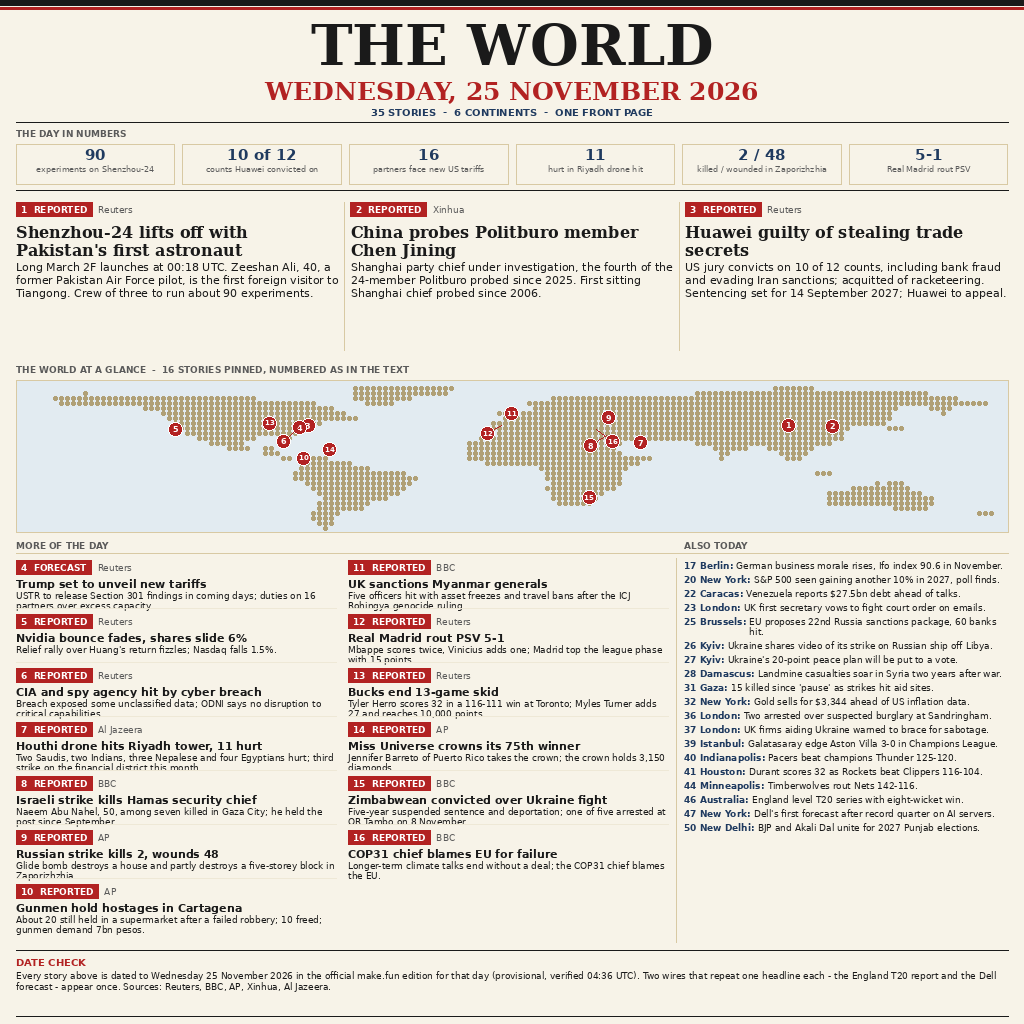
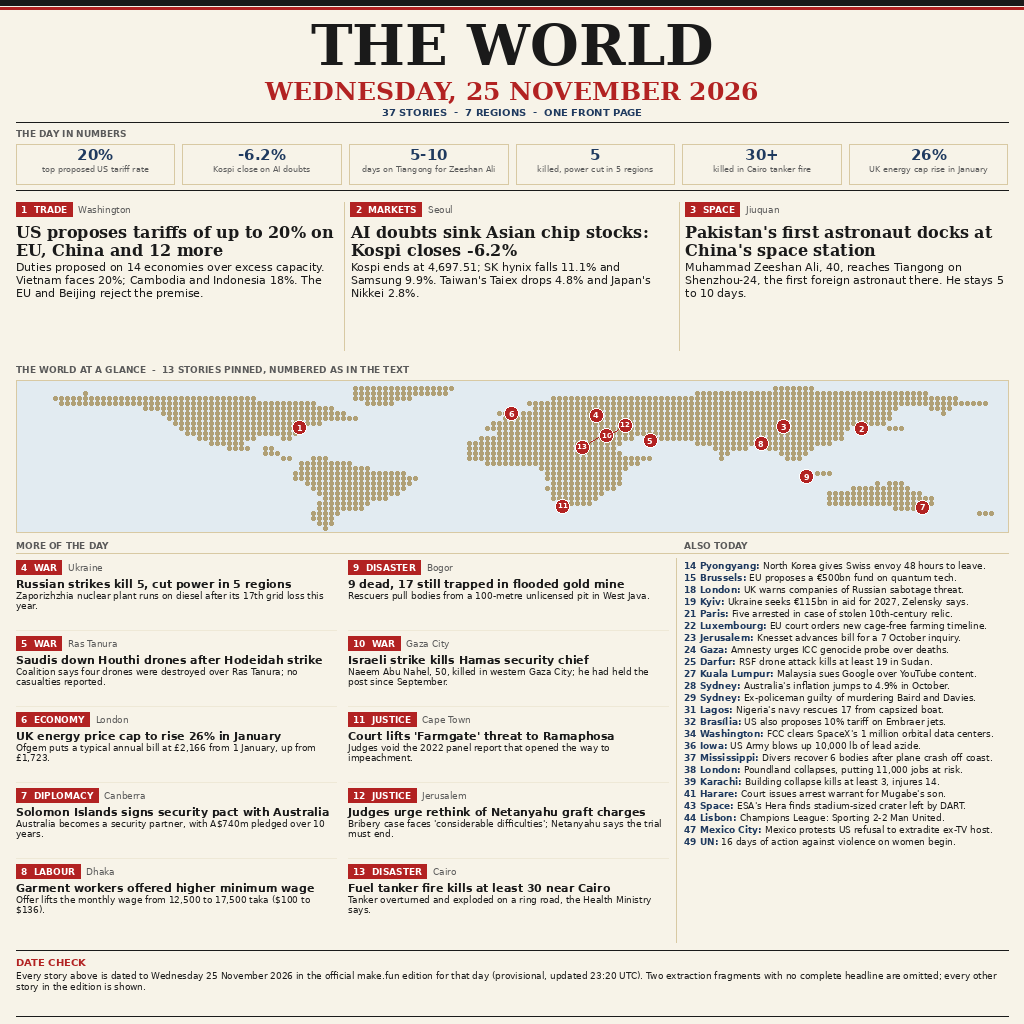
v2: align to updated 25 Nov edition (37 stories, 7 regions)

diff --git a/render.py b/render.py
@@ -2,13 +2,14 @@
 """Render the news-image-20261125 front page (1024x1024, PIL only).
 
 Source of truth: the official make.fun edition
-GET /api/news/editions/2026-11-25 (37 stories, 6 regions, provisional,
-extracted 04:36 UTC), saved at edition-25nov.json. Every number, outlet
-and framing below comes from that edition. Two wires in the edition
-carry the same headline twice, so each is shown once: the England T20
-report (#46/#48) and the Dell forecast (#47/#49). 35 stories are shown.
-No flags are drawn anywhere. No network, no clock, no photos, no
-randomness: two runs are byte-identical.
+GET /api/news/editions/2026-11-25 as re-fetched on 26 Nov (39 stories,
+7 regions, provisional, updated 23:20 UTC), saved at
+edition-25nov-r2.json. Every number, place and framing below comes
+from that edition. Two extraction fragments carry no complete
+headline (a repeated Man United fragment and a truncated OPCW line),
+so they are omitted: 37 stories are shown. No flags are drawn
+anywhere. No network, no clock, no photos, no randomness: two runs
+are byte-identical.
 """
 import os
 
@@ -173,110 +174,101 @@ def on_land(lon, lat):
 
 # ---- Content: all from the official 25 Nov edition ----
 LEADS = [
-    ("1", "REPORTED", "Reuters",
-     "Shenzhou-24 lifts off with Pakistan's first astronaut",
-     "Long March 2F launches at 00:18 UTC. Zeeshan Ali, 40, a former "
-     "Pakistan Air Force pilot, is the first foreign visitor to Tiangong. "
-     "Crew of three to run about 90 experiments.",
-     (100.29, 40.96)),
-    ("2", "REPORTED", "Xinhua",
-     "China probes Politburo member Chen Jining",
-     "Shanghai party chief under investigation, the fourth of the "
-     "24-member Politburo probed since 2025. First sitting Shanghai "
-     "chief probed since 2006.",
-     (116.4, 39.9)),
-    ("3", "REPORTED", "Reuters",
-     "Huawei guilty of stealing trade secrets",
-     "US jury convicts on 10 of 12 counts, including bank fraud and "
-     "evading Iran sanctions; acquitted of racketeering. Sentencing "
-     "set for 14 September 2027; Huawei to appeal.",
-     (-74.01, 40.71)),
+    ("1", "TRADE", "Washington",
+     "US proposes tariffs of up to 20% on EU, China and 12 more",
+     "Duties proposed on 14 economies over excess capacity. Vietnam "
+     "faces 20%; Cambodia and Indonesia 18%. The EU and Beijing "
+     "reject the premise.",
+     (-77.0369, 38.9072)),
+    ("2", "MARKETS", "Seoul",
+     "AI doubts sink Asian chip stocks: Kospi closes -6.2%",
+     "Kospi ends at 4,697.51; SK hynix falls 11.1% and Samsung 9.9%. "
+     "Taiwan's Taiex drops 4.8% and Japan's Nikkei 2.8%.",
+     (126.978, 37.5665)),
+    ("3", "SPACE", "Jiuquan",
+     "Pakistan's first astronaut docks at China's space station",
+     "Muhammad Zeeshan Ali, 40, reaches Tiangong on Shenzhou-24, the "
+     "first foreign astronaut there. He stays 5 to 10 days.",
+     (98.4941, 39.7326)),
 ]
 
 CARDS = [
-    ("4", "FORECAST", "Reuters",
-     "Trump set to unveil new tariffs",
-     "USTR to release Section 301 findings in coming days; duties on 16 "
-     "partners over excess capacity.", ( -77.04, 38.9)),
-    ("5", "REPORTED", "Reuters",
-     "Nvidia bounce fades, shares slide 6%",
-     "Relief rally over Huang's return fizzles; Nasdaq falls 1.5%.",
-     (-121.95, 37.35)),
-    ("6", "REPORTED", "Reuters",
-     "CIA and spy agency hit by cyber breach",
-     "Breach exposed some unclassified data; ODNI says no disruption to "
-     "critical capabilities.", (-77.15, 38.95)),
-    ("7", "REPORTED", "Al Jazeera",
-     "Houthi drone hits Riyadh tower, 11 hurt",
-     "Two Saudis, two Indians, three Nepalese and four Egyptians hurt; "
-     "third strike on the financial district this month.", (46.68, 24.71)),
-    ("8", "REPORTED", "BBC",
+    ("4", "WAR", "Ukraine",
+     "Russian strikes kill 5, cut power in 5 regions",
+     "Zaporizhzhia nuclear plant runs on diesel after its 17th grid "
+     "loss this year.", (30.5234, 50.4501)),
+    ("5", "WAR", "Ras Tanura",
+     "Saudis down Houthi drones after Hodeidah strike",
+     "Coalition says four drones were destroyed over Ras Tanura; no "
+     "casualties reported.", (50.1595, 26.6406)),
+    ("6", "ECONOMY", "London",
+     "UK energy price cap to rise 26% in January",
+     "Ofgem puts a typical annual bill at £2,166 from 1 January, up "
+     "from £1,723.", (-0.1278, 51.5074)),
+    ("7", "DIPLOMACY", "Canberra",
+     "Solomon Islands signs security pact with Australia",
+     "Australia becomes a security partner, with A$740m pledged over "
+     "10 years.", (149.13, -35.2809)),
+    ("8", "LABOUR", "Dhaka",
+     "Garment workers offered higher minimum wage",
+     "Offer lifts the monthly wage from 12,500 to 17,500 taka "
+     "($100 to $136).", (90.4125, 23.8103)),
+    ("9", "DISASTER", "Bogor",
+     "9 dead, 17 still trapped in flooded gold mine",
+     "Rescuers pull bodies from a 100-metre unlicensed pit in West "
+     "Java.", (106.8166, -6.595)),
+    ("10", "WAR", "Gaza City",
      "Israeli strike kills Hamas security chief",
-     "Naeem Abu Nahel, 50, among seven killed in Gaza City; he held the "
-     "post since September.", (34.47, 31.5)),
-    ("9", "REPORTED", "AP",
-     "Russian strike kills 2, wounds 48",
-     "Glide bomb destroys a house and partly destroys a five-storey block "
-     "in Zaporizhzhia.", (35.14, 47.84)),
-    ("10", "REPORTED", "AP",
-     "Gunmen hold hostages in Cartagena",
-     "About 20 still held in a supermarket after a failed robbery; 10 "
-     "freed; gunmen demand 7bn pesos.", (-75.51, 10.39)),
-    ("11", "REPORTED", "BBC",
-     "UK sanctions Myanmar generals",
-     "Five officers hit with asset freezes and travel bans after the ICJ "
-     "Rohingya genocide ruling.", (-0.13, 51.51)),
-    ("12", "REPORTED", "Reuters",
-     "Real Madrid rout PSV 5-1",
-     "Mbappe scores twice, Vinicius adds one; Madrid top the league "
-     "phase with 15 points.", (-3.7, 40.42)),
-    ("13", "REPORTED", "Reuters",
-     "Bucks end 13-game skid",
-     "Tyler Herro scores 32 in a 116-111 win at Toronto; Myles Turner "
-     "adds 27 and reaches 10,000 points.", (-87.91, 43.04)),
-    ("14", "REPORTED", "AP",
-     "Miss Universe crowns its 75th winner",
-     "Jennifer Barreto of Puerto Rico takes the crown; the crown holds "
-     "3,150 diamonds.", (-66.11, 18.47)),
-    ("15", "REPORTED", "BBC",
-     "Zimbabwean convicted over Ukraine fight",
-     "Five-year suspended sentence and deportation; one of five arrested "
-     "at OR Tambo on 8 November.", (28.05, -26.2)),
-    ("16", "REPORTED", "BBC",
-     "COP31 chief blames EU for failure",
-     "Longer-term climate talks end without a deal; the COP31 chief "
-     "blames the EU.", (30.71, 36.89)),
+     "Naeem Abu Nahel, 50, killed in western Gaza City; he had held "
+     "the post since September.", (34.4668, 31.5017)),
+    ("11", "JUSTICE", "Cape Town",
+     "Court lifts 'Farmgate' threat to Ramaphosa",
+     "Judges void the 2022 panel report that opened the way to "
+     "impeachment.", (18.4241, -33.9249)),
+    ("12", "JUSTICE", "Jerusalem",
+     "Judges urge rethink of Netanyahu graft charges",
+     "Bribery case faces 'considerable difficulties'; Netanyahu says "
+     "the trial must end.", (35.2137, 31.7683)),
+    ("13", "DISASTER", "Cairo",
+     "Fuel tanker fire kills at least 30 near Cairo",
+     "Tanker overturned and exploded on a ring road, the Health "
+     "Ministry says.", (31.2357, 30.0444)),
 ]
 
 BRIEFS = [
-    ("17", "Berlin", "German business morale rises, Ifo index 90.6 in November."),
-    ("20", "New York", "S&P 500 seen gaining another 10% in 2027, poll finds."),
-    ("22", "Caracas", "Venezuela reports $27.5bn debt ahead of talks."),
-    ("23", "London", "UK first secretary vows to fight court order on emails."),
-    ("25", "Brussels", "EU proposes 22nd Russia sanctions package, 60 banks hit."),
-    ("26", "Kyiv", "Ukraine shares video of its strike on Russian ship off Libya."),
-    ("27", "Kyiv", "Ukraine's 20-point peace plan will be put to a vote."),
-    ("28", "Damascus", "Landmine casualties soar in Syria two years after war."),
-    ("31", "Gaza", "15 killed since 'pause' as strikes hit aid sites."),
-    ("32", "New York", "Gold sells for $3,344 ahead of US inflation data."),
-    ("36", "London", "Two arrested over suspected burglary at Sandringham."),
-    ("37", "London", "UK firms aiding Ukraine warned to brace for sabotage."),
-    ("39", "Istanbul", "Galatasaray edge Aston Villa 3-0 in Champions League."),
-    ("40", "Indianapolis", "Pacers beat champions Thunder 125-120."),
-    ("41", "Houston", "Durant scores 32 as Rockets beat Clippers 116-104."),
-    ("44", "Minneapolis", "Timberwolves rout Nets 142-116."),
-    ("46", "Australia", "England level T20 series with eight-wicket win."),
-    ("47", "New York", "Dell's first forecast after record quarter on AI servers."),
-    ("50", "New Delhi", "BJP and Akali Dal unite for 2027 Punjab elections."),
+    ("14", "Pyongyang", "North Korea gives Swiss envoy 48 hours to leave."),
+    ("15", "Brussels", "EU proposes a €500bn fund on quantum tech."),
+    ("18", "London", "UK warns companies of Russian sabotage threat."),
+    ("19", "Kyiv", "Ukraine seeks €115bn in aid for 2027, Zelensky says."),
+    ("21", "Paris", "Five arrested in case of stolen 10th-century relic."),
+    ("22", "Luxembourg", "EU court orders new cage-free farming timeline."),
+    ("23", "Jerusalem", "Knesset advances bill for a 7 October inquiry."),
+    ("24", "Gaza", "Amnesty urges ICC genocide probe over deaths."),
+    ("25", "Darfur", "RSF drone attack kills at least 19 in Sudan."),
+    ("27", "Kuala Lumpur", "Malaysia sues Google over YouTube content."),
+    ("28", "Sydney", "Australia's inflation jumps to 4.9% in October."),
+    ("29", "Sydney", "Ex-policeman guilty of murdering Baird and Davies."),
+    ("31", "Lagos", "Nigeria's navy rescues 17 from capsized boat."),
+    ("32", "Brasília", "US also proposes 10% tariff on Embraer jets."),
+    ("34", "Washington", "FCC clears SpaceX's 1 million orbital data centers."),
+    ("36", "Iowa", "US Army blows up 10,000 lb of lead azide."),
+    ("37", "Mississippi", "Divers recover 6 bodies after plane crash off coast."),
+    ("38", "London", "Poundland collapses, putting 11,000 jobs at risk."),
+    ("39", "Karachi", "Building collapse kills at least 3, injures 14."),
+    ("41", "Harare", "Court issues arrest warrant for Mugabe's son."),
+    ("43", "Space", "ESA's Hera finds stadium-sized crater left by DART."),
+    ("44", "Lisbon", "Champions League: Sporting 2-2 Man United."),
+    ("47", "Mexico City", "Mexico protests US refusal to extradite ex-TV host."),
+    ("49", "UN", "16 days of action against violence on women begin."),
 ]
 
 NUMBERS = [
-    ("90", "experiments on Shenzhou-24"),
-    ("10 of 12", "counts Huawei convicted on"),
-    ("16", "partners face new US tariffs"),
-    ("11", "hurt in Riyadh drone hit"),
-    ("2 / 48", "killed / wounded in Zaporizhzhia"),
-    ("5-1", "Real Madrid rout PSV"),
+    ("20%", "top proposed US tariff rate"),
+    ("-6.2%", "Kospi close on AI doubts"),
+    ("5-10", "days on Tiangong for Zeeshan Ali"),
+    ("5", "killed, power cut in 5 regions"),
+    ("30+", "killed in Cairo tanker fire"),
+    ("26%", "UK energy cap rise in January"),
 ]
 
 
@@ -292,7 +284,7 @@ def draw_masthead(draw):
     tw2 = draw.textlength(t2, font=f2)
     draw.text(((W - tw2) / 2, 76), t2, font=f2, fill=RED)
     f3 = font(SANS_B, 10)
-    t3 = "35 STORIES  -  6 CONTINENTS  -  ONE FRONT PAGE"
+    t3 = "37 STORIES  -  7 REGIONS  -  ONE FRONT PAGE"
     tw3 = draw.textlength(t3, font=f3)
     draw.text(((W - tw3) / 2, 106), t3, font=f3, fill=NAVY)
     draw.line([16, 122, W - 16, 122], fill=RULE, width=1)
@@ -340,13 +332,13 @@ def draw_leads(draw, y):
     return top + 154
 
 # Pins that would collide are nudged, with a leader line to the true spot.
-NUDGE = {"6": (-16, 14), "8": (-16, 10), "12": (-14, 8), "16": (16, 12)}
+NUDGE = {"12": (16, -10), "13": (-16, 10)}
 PINNED = LEADS + CARDS
 
 
 def draw_map(draw, y):
     f = font(SANS_B, 9)
-    draw.text((16, y), "THE WORLD AT A GLANCE  -  16 STORIES PINNED, NUMBERED AS IN THE TEXT",
+    draw.text((16, y), "THE WORLD AT A GLANCE  -  13 STORIES PINNED, NUMBERED AS IN THE TEXT",
               font=f, fill=GREY)
     top = y + 16
     mx0, my0, mx1, my1 = 16, top, W - 16, top + 152
@@ -393,12 +385,12 @@ def draw_cards_briefs(draw, y0, y1):
     draw.line([676, y0 + 18, 676, y1], fill=TAN, width=1)
     top = y0 + 20
     col_w = 320
-    rows = 7
+    rows = 5
     row_h = (y1 - top) // rows
     fh = font(SANS_B, 11)
     fd = font(SANS, 9)
-    left = CARDS[:7]
-    right = CARDS[7:]
+    left = CARDS[:5]
+    right = CARDS[5:]
     for ci, cards in enumerate((left, right)):
         x = 16 + ci * (col_w + 12)
         for ri, (num, label, outlet, head, deck, _geo) in enumerate(cards):
@@ -408,7 +400,7 @@ def draw_cards_briefs(draw, y0, y1):
             hy = draw_wrapped(draw, x, hy, head, fh, col_w, fill=INK,
                               leading=1, max_lines=1)
             draw_wrapped(draw, x, hy + 1, deck, fd, col_w, fill=INK,
-                         leading=1, max_lines=2)
+                         leading=1, max_lines=3)
             if ri < len(cards) - 1:
                 draw.line([x, cy + row_h - 6, x + col_w, cy + row_h - 6],
                           fill=LIGHT, width=1)
@@ -421,7 +413,7 @@ def draw_cards_briefs(draw, y0, y1):
         draw.text((684, by), pref, font=fbp, fill=NAVY)
         by = draw_wrapped(draw, 684 + pw, by, text, fb, 324 - pw,
                           fill=INK, leading=1, max_lines=2)
-        by += 4
+        by += 2
     return y1
 
 
@@ -431,10 +423,9 @@ def draw_datecheck(draw, y):
     draw.text((16, y + 6), "DATE CHECK", font=f, fill=RED)
     f2 = font(SANS, 9)
     t = ("Every story above is dated to Wednesday 25 November 2026 in the "
-         "official make.fun edition for that day (provisional, verified "
-         "04:36 UTC). Two wires that repeat one headline each - the England "
-         "T20 report and the Dell forecast - appear once. Sources: Reuters, "
-         "BBC, AP, Xinhua, Al Jazeera.")
+         "official make.fun edition for that day (provisional, updated "
+         "23:20 UTC). Two extraction fragments with no complete headline "
+         "are omitted; every other story in the edition is shown.")
     draw_wrapped(draw, 16, y + 20, t, f2, W - 32, fill=INK, leading=2,
                  max_lines=2)
     draw.line([16, H - 8, W - 16, H - 8], fill=RULE, width=1)
